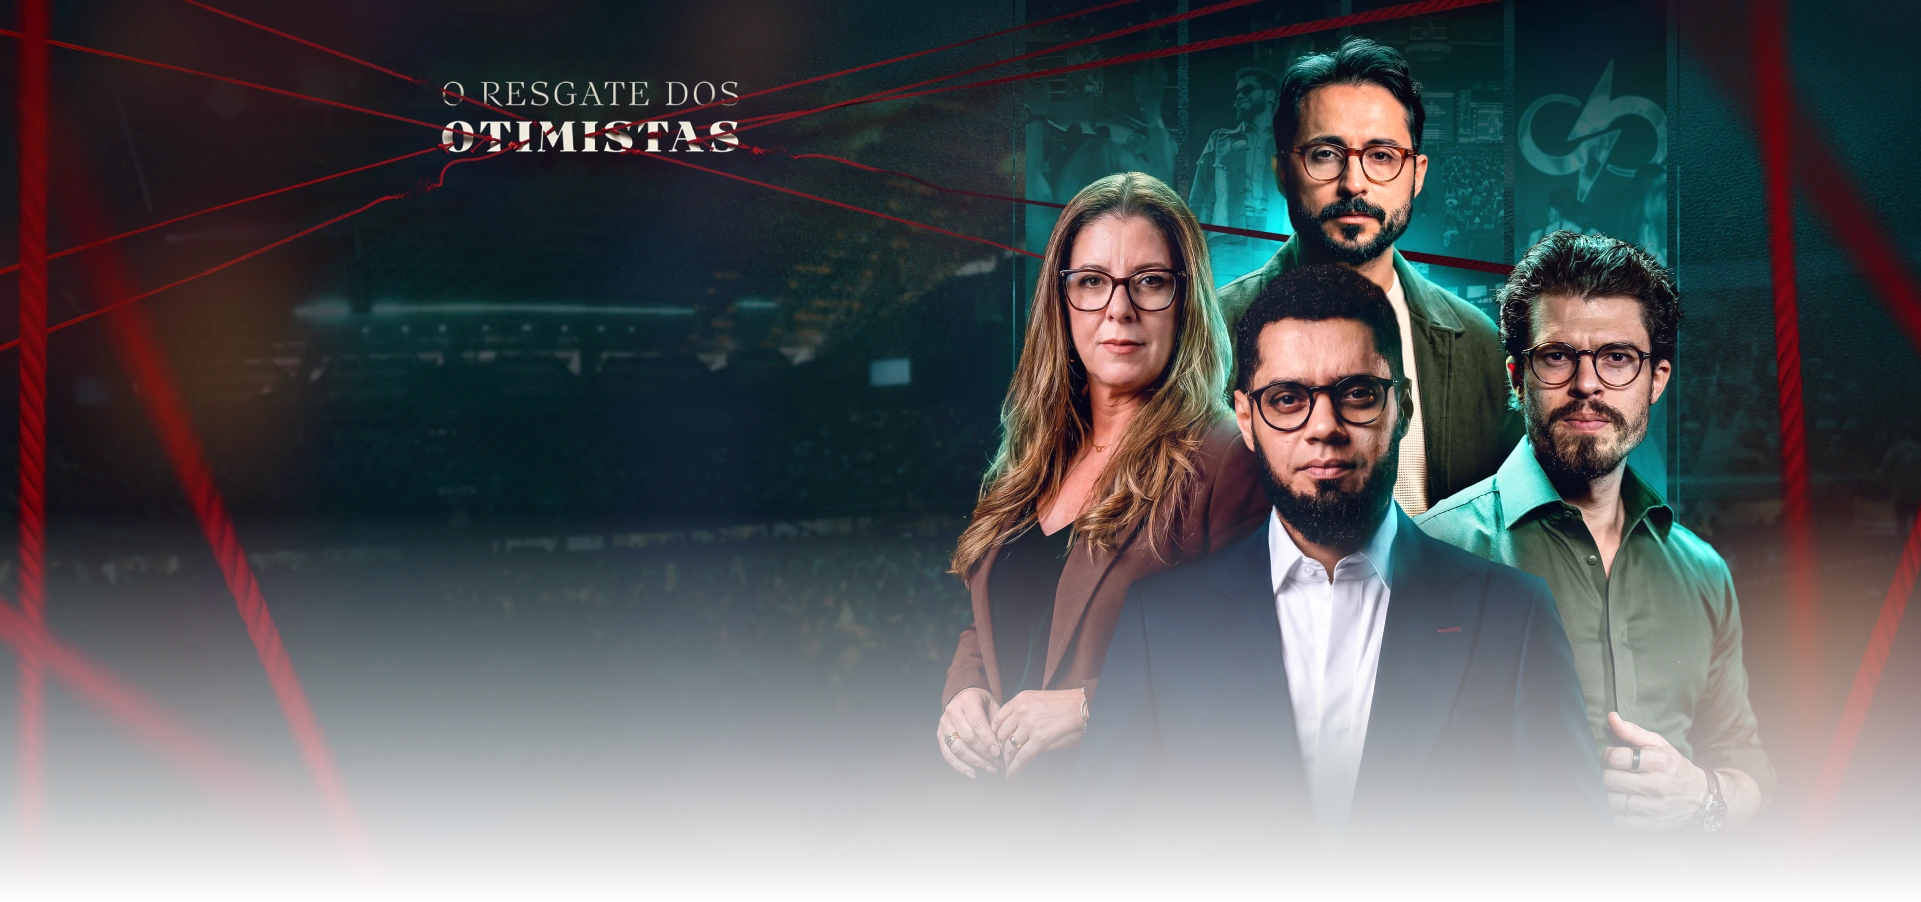
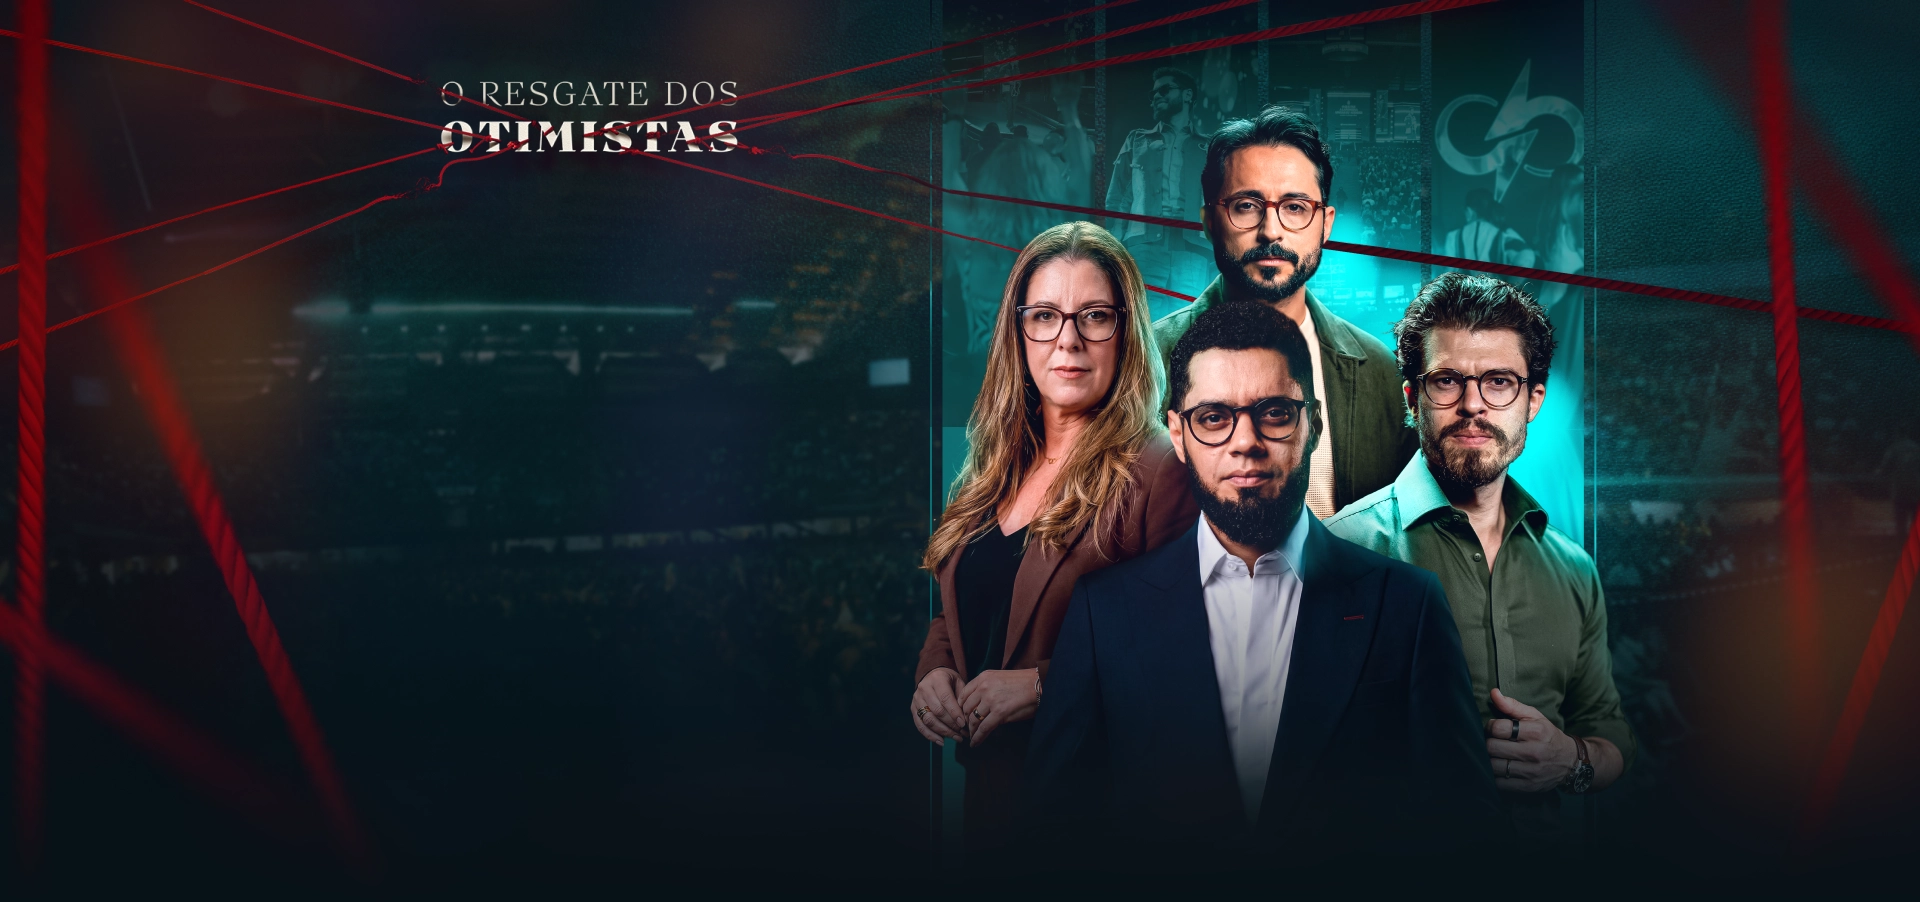
ajuste de tamanho da imagem da primeira dobra

diff --git a/app/oro/[version]/v2/hero-section.tsx b/app/oro/[version]/v2/hero-section.tsx
@@ -26,7 +26,7 @@ export default function HeroSection({
 	return (
 		<section
 			id="hero"
-			className={`relative min-h-[860px] md:h-[940px] flex flex-col items-center p-4 pb-12 md:p-0 justify-start md:justify-center overflow-hidden bg-[#D3CAC0] bg-[url('/images/oro/v2/o_resgate_dos_otimistas_white_mobile.webp')] md:bg-[url('/images/oro/v2/o_resgate_dos_otimistas_white.webp')] bg-cover bg-center z-0`}
+			className={`relative min-h-[860px] md:h-[902px] flex flex-col items-center p-4 pb-12 md:p-0 justify-start md:justify-center overflow-hidden bg-[#D3CAC0] bg-[url('/images/oro/v2/o_resgate_dos_otimistas_white_mobile.webp')] md:bg-[url('/images/oro/v2/o_resgate_dos_otimistas_white.webp')] bg-cover bg-center z-0`}
 		>
 			<div
 				className={`mx-auto sm:px-4 2md:pt-6 pt-2 relative lg:w-[1080px] w-full flex justify-center md:justify-start`}
